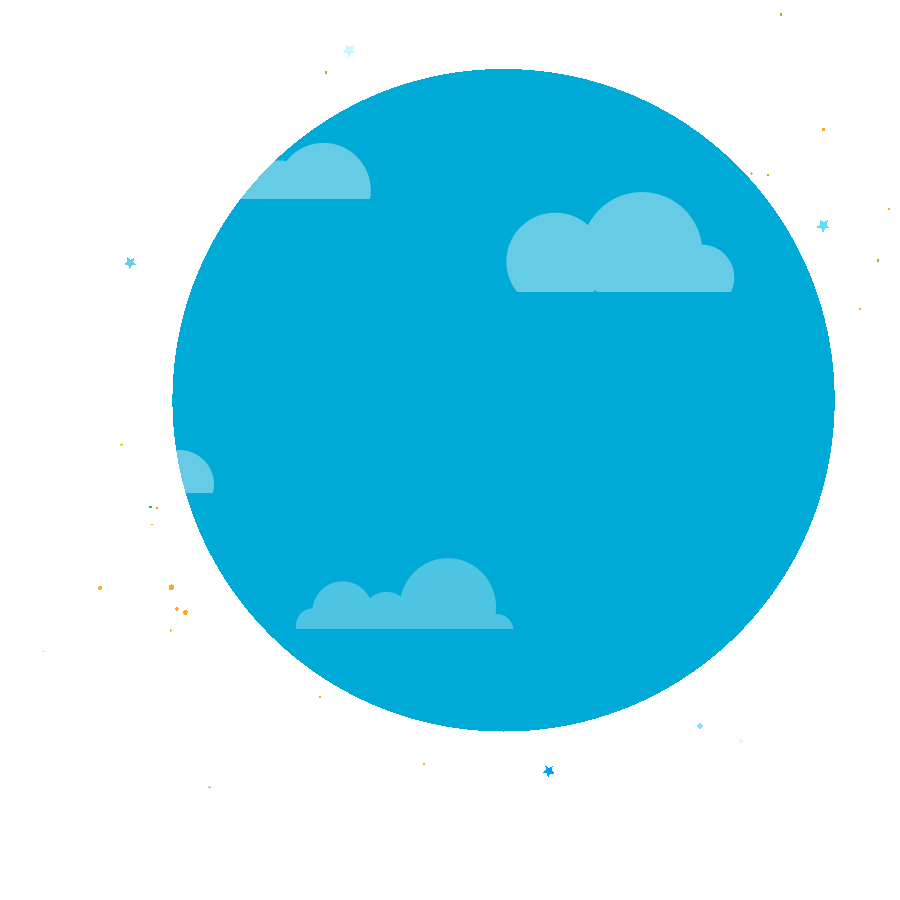
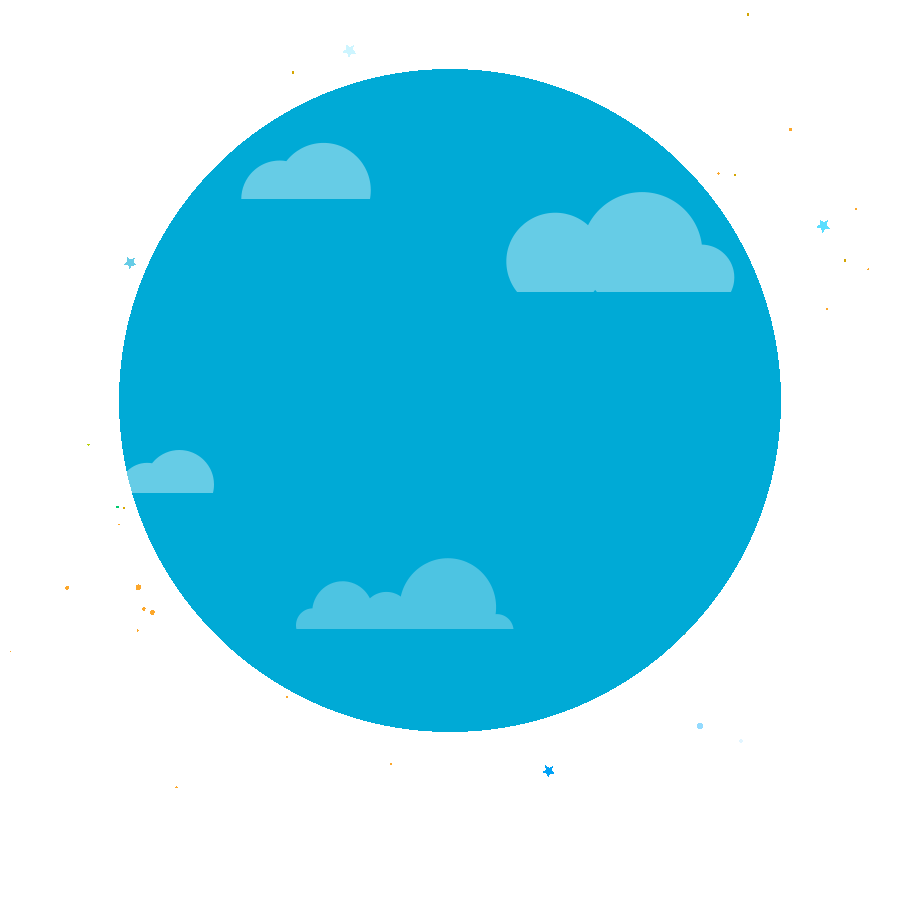
修改奥特曼和小怪兽到中间

Changed region(s): [[0.56, 0.0622, 0.9333, 0.84], [0.1244, 0.0622, 0.4978, 0.84]]

diff --git a/dist.html b/dist.html
@@ -1298,15 +1298,15 @@ function WeiXinShareBtn() {
             },
             {
               image: createImageElement(basePath + '/heart-96-216.png', 'slide-1-img-'),
-              translate: [60, -150]
+              translate: [-4, -150]
             },
             {
               image: createImageElement(basePath + '/monster-258-216.png', 'slide-1-img-'),
-              translate: [210, 0]
+              translate: [146, 0]
             },
             {
               image: createImageElement(basePath + '/aotema-216-216.png', 'slide-1-img-'),
-              translate: [-80, 0]
+              translate: [-144, 0]
             },
           ],
           angle: 270,

diff --git a/slides/slide-1/slide-1.js b/slides/slide-1/slide-1.js
@@ -66,15 +66,15 @@
             },
             {
               image: createImageElement(basePath + '/heart-96-216.png', 'slide-1-img-'),
-              translate: [60, -150]
+              translate: [-4, -150]
             },
             {
               image: createImageElement(basePath + '/monster-258-216.png', 'slide-1-img-'),
-              translate: [210, 0]
+              translate: [146, 0]
             },
             {
               image: createImageElement(basePath + '/aotema-216-216.png', 'slide-1-img-'),
-              translate: [-80, 0]
+              translate: [-144, 0]
             },
           ],
           startAngle: 180,
